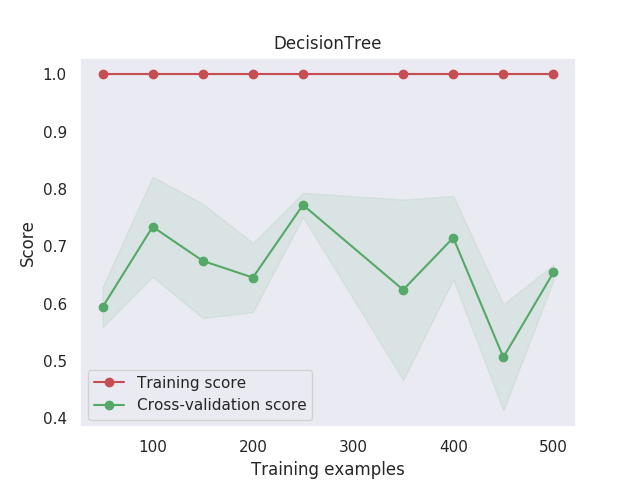
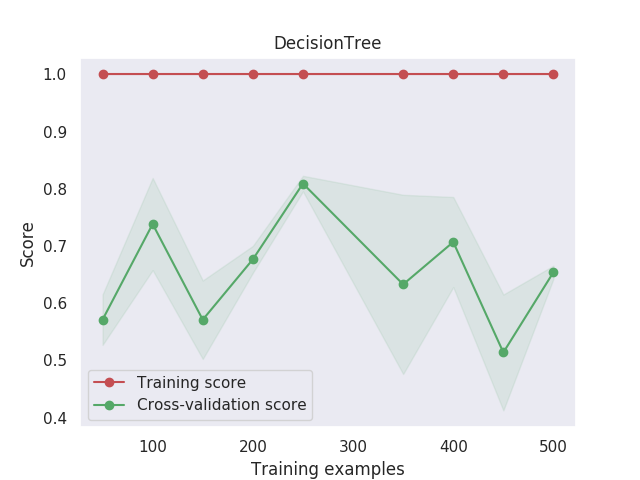
完成第38篇文章的代码。

diff --git a/38/FeatureEnginner.py b/38/FeatureEnginner.py
@@ -14,6 +14,13 @@ import warnings
 warnings.filterwarnings('ignore')
 
 from sklearn.preprocessing import LabelEncoder, OneHotEncoder
+from sklearn import model_selection
+
+from sklearn.ensemble import RandomForestClassifier
+from sklearn.ensemble import AdaBoostClassifier
+from sklearn.ensemble import ExtraTreesClassifier
+from sklearn.ensemble import GradientBoostingClassifier
+from sklearn.tree import DecisionTreeClassifier
 
 
 # 根据姓名提取姓
@@ -284,6 +291,86 @@ def dataTransform(df_all):
     return df_all
     
     
+# 找出最重要的几个特征
+def get_top_n_features(df_all, top_n_features):
+    # 划分数据
+    train_df, test_df = tools.divide_df(df_all)
+    titanic_train_data_X = train_df.drop(["Survived", "PassengerId"], axis = 1)
+    titanic_train_data_Y = train_df["Survived"]
+    
+    # random forest
+    rf_est = RandomForestClassifier(random_state=0)
+    rf_param_grid = {'n_estimators': [500], 'min_samples_split': [2, 3], 'max_depth': [20]}
+    rf_grid = model_selection.GridSearchCV(rf_est, rf_param_grid, n_jobs=-1, cv=10, verbose=1)
+    rf_grid.fit(titanic_train_data_X, titanic_train_data_Y)
+    print('Top N Features Best RF Params:' + str(rf_grid.best_params_))
+    print('Top N Features Best RF Score:' + str(rf_grid.best_score_))
+    print('Top N Features RF Train Score:' + str(rf_grid.score(titanic_train_data_X, titanic_train_data_Y)))
+    feature_imp_sorted_rf = pd.DataFrame({'feature':list(titanic_train_data_X), 'importance': rf_grid.best_estimator_.feature_importances_}).sort_values('importance',ascending=False)
+    features_top_n_rf = feature_imp_sorted_rf.head(top_n_features)['feature']
+    print('Sample 10 Features from RF Classifier')
+    print(str(features_top_n_rf[:10]))
+    
+    # AdaBoost
+    ada_est =AdaBoostClassifier(random_state=0)
+    ada_param_grid = {'n_estimators': [500], 'learning_rate': [0.01, 0.1]}
+    ada_grid = model_selection.GridSearchCV(ada_est, ada_param_grid, n_jobs=-1, cv=10, verbose=1)
+    ada_grid.fit(titanic_train_data_X, titanic_train_data_Y)
+    print('Top N Features Best Ada Params:' + str(ada_grid.best_params_))
+    print('Top N Features Best Ada Score:' + str(ada_grid.best_score_))
+    print('Top N Features Ada Train Score:' + str(ada_grid.score(titanic_train_data_X, titanic_train_data_Y)))
+    feature_imp_sorted_ada = pd.DataFrame({'feature':list(titanic_train_data_X), 'importance': ada_grid.best_estimator_.feature_importances_}).sort_values('importance', ascending=False)
+    features_top_n_ada = feature_imp_sorted_ada.head(top_n_features)['feature']
+    print('Sample 10 Feature from Ada Classifier:')
+    print(str(features_top_n_ada[:10]))
+
+    # ExtraTree
+    et_est = ExtraTreesClassifier(random_state=0)
+    et_param_grid = {'n_estimators': [500], 'min_samples_split': [3, 4], 'max_depth': [20]}
+    et_grid = model_selection.GridSearchCV(et_est, et_param_grid, n_jobs=-1, cv=10, verbose=1)
+    et_grid.fit(titanic_train_data_X, titanic_train_data_Y)
+    print('Top N Features Best ET Params:' + str(et_grid.best_params_))
+    print('Top N Features Best ET Score:' + str(et_grid.best_score_))
+    print('Top N Features ET Train Score:' + str(et_grid.score(titanic_train_data_X, titanic_train_data_Y)))
+    feature_imp_sorted_et = pd.DataFrame({'feature':list(titanic_train_data_X), 'importance': et_grid.best_estimator_.feature_importances_}).sort_values('importance', ascending=False)
+    features_top_n_et =  feature_imp_sorted_et.head(top_n_features)['feature']
+    print('Sample 10 Features from ET Classifier:')
+    print(str(features_top_n_et[:10]))
+    
+    # GradientBoosting
+    gb_est =GradientBoostingClassifier(random_state=0)
+    gb_param_grid = {'n_estimators': [500], 'learning_rate': [0.01, 0.1], 'max_depth': [20]}
+    gb_grid = model_selection.GridSearchCV(gb_est, gb_param_grid, n_jobs=-1, cv=10, verbose=1)
+    gb_grid.fit(titanic_train_data_X, titanic_train_data_Y)
+    print('Top N Features Best GB Params:' + str(gb_grid.best_params_))
+    print('Top N Features Best GB Score:' + str(gb_grid.best_score_))
+    print('Top N Features GB Train Score:' + str(gb_grid.score(titanic_train_data_X, titanic_train_data_Y)))
+    feature_imp_sorted_gb = pd.DataFrame({'feature':list(titanic_train_data_X), 'importance': gb_grid.best_estimator_.feature_importances_}).sort_values('importance', ascending=False)
+    features_top_n_gb = feature_imp_sorted_gb.head(top_n_features)['feature']
+    print('Sample 10 Feature from GB Classifier:')
+    print(str(features_top_n_gb[:10]))
+    
+    # DecisionTree
+    dt_est = DecisionTreeClassifier(random_state=0)
+    dt_param_grid = {'min_samples_split': [2, 4], 'max_depth': [20]}
+    dt_grid = model_selection.GridSearchCV(dt_est, dt_param_grid, n_jobs=-1, cv=10, verbose=1)
+    dt_grid.fit(titanic_train_data_X, titanic_train_data_Y)
+    print('Top N Features Best DT Params:' + str(dt_grid.best_params_))
+    print('Top N Features Best DT Score:' + str(dt_grid.best_score_))
+    print('Top N Features DT Train Score:' + str(dt_grid.score(titanic_train_data_X, titanic_train_data_Y)))
+    feature_imp_sorted_dt = pd.DataFrame({'feature':list(titanic_train_data_X), 'importance': dt_grid.best_estimator_.feature_importances_}).sort_values('importance', ascending=False)
+    features_top_n_dt = feature_imp_sorted_dt.head(top_n_features)['feature']
+    print('Sample 10 Features from DT Classifier:')
+    print(str(features_top_n_dt[:10]))
+    
+    # merge the three models
+    features_top_n = pd.concat([features_top_n_rf, features_top_n_ada, features_top_n_et, features_top_n_gb, features_top_n_dt],ignore_index=True).drop_duplicates()
+    
+    features_importance = pd.concat([feature_imp_sorted_rf,feature_imp_sorted_ada, feature_imp_sorted_et,feature_imp_sorted_gb, feature_imp_sorted_dt],ignore_index=True)
+    
+    return features_top_n, features_importance
+    
+    
 # 进行特征工程
 def feature_engineer(df_all):
     FareEng(df_all)
@@ -293,6 +380,6 @@ def feature_engineer(df_all):
     df_all = TitleMarriedEng(df_all)
     df_all = FamilyTicketEng(df_all)
     df_all = dataTransform(df_all)
-    
-    return df_all
+    feature_top_n, feature_importance = get_top_n_features(df_all, 10)
+    return df_all, feature_top_n
     

diff --git a/38/MergeModels.py b/38/MergeModels.py
@@ -1,0 +1,86 @@
+# coding:utf-8
+# 模型融合
+
+
+import numpy as np
+import pandas as pd
+
+from sklearn.model_selection import KFold
+
+from sklearn.neighbors import KNeighborsClassifier
+from sklearn.svm import SVC
+from sklearn.ensemble import RandomForestClassifier, AdaBoostClassifier, ExtraTreesClassifier, GradientBoostingClassifier
+from sklearn.tree import DecisionTreeClassifier
+
+import tools
+
+from xgboost import XGBClassifier
+
+
+
+SEED = 0
+NFOLDS = 7
+kf = KFold(n_splits = NFOLDS, random_state = SEED, shuffle = False)
+
+
+def get_out_fold(clf, x_train, y_train, x_test):
+    ntrain = x_train.shape[0]
+    ntest = x_test.shape[0]
+    oof_train = np.zeros((ntrain, ))
+    oof_test = np.zeros((ntest, ))
+    oof_test_skf = np.empty((NFOLDS, ntest))
+    
+    for i, (train_index, test_index) in enumerate(kf.split(x_train)):
+        x_tr = x_train[train_index]
+        y_tr = y_train[train_index]
+        x_te = x_train[test_index]
+        
+        clf.fit(x_tr, y_tr)
+        
+        oof_train[test_index] = clf.predict(x_te)
+        oof_test_skf[i, :] = clf.predict(x_test)
+    oof_test[:] = oof_test_skf.mean(axis=0)
+    return oof_train.reshape(-1, 1), oof_test.reshape(-1, 1)
+
+
+# 模型融合
+def MergeModels(df_all, top_features):
+    print("模型融合")
+    # level 1
+    rf = RandomForestClassifier(n_estimators=500, warm_start=True, max_features='sqrt',max_depth=6, min_samples_split=3, min_samples_leaf=2, n_jobs=-1, verbose=0)
+    ada = AdaBoostClassifier(n_estimators=500, learning_rate=0.1)
+    et = ExtraTreesClassifier(n_estimators=500, n_jobs=-1, max_depth=8,min_samples_leaf=2, verbose=0)
+    gb = GradientBoostingClassifier(n_estimators=500, learning_rate=0.008, min_samples_split=3, min_samples_leaf=2, max_depth=5,verbose=0)
+    dt = DecisionTreeClassifier(max_depth=8)
+    knn = KNeighborsClassifier(n_neighbors = 2)
+    svm = SVC(kernel='linear', C=0.025)
+    
+    train_df, test_df = tools.divide_df(df_all)
+    x_train = train_df[top_features].values
+    y_train = train_df["Survived"].values
+    x_test = test_df[top_features].values
+    
+    rf_oof_train, rf_oof_test = get_out_fold(rf, x_train, y_train, x_test)
+    # Random Forest
+    ada_oof_train, ada_oof_test = get_out_fold(ada, x_train, y_train, x_test)
+    # AdaBoost 
+    et_oof_train, et_oof_test = get_out_fold(et, x_train, y_train, x_test)
+    # Extra Trees
+    gb_oof_train, gb_oof_test = get_out_fold(gb, x_train, y_train, x_test)
+    # Gradient Boost
+    dt_oof_train, dt_oof_test = get_out_fold(dt, x_train, y_train, x_test)
+    # Decision Tree
+    knn_oof_train, knn_oof_test = get_out_fold(knn, x_train, y_train, x_test)
+    # KNeighbors
+    svm_oof_train, svm_oof_test = get_out_fold(svm, x_train, y_train, x_test)
+    # Support Vector
+    print("训练完成")
+    
+    # level 2 预测并生成提交文件
+    x_train = np.concatenate((rf_oof_train, ada_oof_train, et_oof_train, gb_oof_train, dt_oof_train, knn_oof_train, svm_oof_train), axis=1)
+    x_test = np.concatenate((rf_oof_test, ada_oof_test, et_oof_test, gb_oof_test, dt_oof_test, knn_oof_test, svm_oof_test), axis=1)
+    
+    gbm = XGBClassifier( n_estimators= 2000, max_depth= 4, min_child_weight= 2, gamma=0.9, subsample=0.8,colsample_bytree=0.8, objective= 'binary:logistic', nthread= -1,scale_pos_weight=1).fit(x_train, y_train)
+    predictions = gbm.predict(x_test).astype(int)
+    StackingSubmission = pd.DataFrame({'PassengerId': test_df["PassengerId"], 'Survived': predictions})
+    StackingSubmission.to_csv('StackingSubmission.csv',index=False,sep=',')

diff --git a/38/modeling.py b/38/modeling.py
@@ -20,12 +20,15 @@ import tools
 
 
 # 划分并处理数据
-def divide_data(df_all):
+def divide_data(df_all, feature_top_n):
     # 划分数据
     df_train, df_test = tools.divide_df(df_all)
-    X_train = StandardScaler().fit_transform(df_train.drop(["Survived"], axis = 1))
+    # X_train = StandardScaler().fit_transform(df_train.drop(["Survived"], axis = 1))
+    # y_train = df_train["Survived"].values
+    # X_test = StandardScaler().fit_transform(df_test)
+    X_train = StandardScaler().fit_transform(df_train[feature_top_n], axis = 1)
     y_train = df_train["Survived"].values
-    X_test = StandardScaler().fit_transform(df_test)
+    X_test = StandardScaler().fit_transform(df_test[feature_top_n])
     
     print('X_train shape: {}'.format(X_train.shape))
     print('y_train shape: {}'.format(y_train.shape))
@@ -160,9 +163,9 @@ def makeSubmission(probs, df_test, N):
     
     
 # 建模
-def model(df_all):
+def model(df_all, feature_top_n):
     N = 5
-    X_train, y_train, X_test, df_test = divide_data(df_all)
+    X_train, y_train, X_test, df_test = divide_data(df_all, feature_top_n)
     
     single_best_model = RFC(criterion = "gini", n_estimators = 1100, max_depth = 5, min_samples_split=4, min_samples_leaf=5, max_features='auto', oob_score=True, random_state=SEED, n_jobs=-1, verbose=1)
     leaderboard_model = RFC(criterion = "gini", n_estimators = 1750, max_depth = 7, min_samples_split=6, min_samples_leaf=6, max_features='auto', oob_score=True, random_state=SEED, n_jobs=-1, verbose=1)

diff --git a/38/titanic.py b/38/titanic.py
@@ -7,6 +7,7 @@ import FeatureEnginner as fe
 import modeling
 import modelevaluation as me
 import model_compare as mc
+import MergeModels as mm
 import numpy as np
 import pandas as pd
 import matplotlib.pyplot as plt
@@ -32,7 +33,7 @@ if __name__ == "__main__":
     print(df_all.head())
     
     # ③特征工程
-    df_all = fe.feature_engineer(df_all)
+    df_all, top_features = fe.feature_engineer(df_all)
     
     # ④建模
     # modeling.model(df_all)
@@ -45,4 +46,7 @@ if __name__ == "__main__":
     # me.learnning_curve(rf_parameters, RFC, title, df_all, filename)
     
     # ⑥比较不同的模型
-    mc.model_compare(df_all)
+    # mc.model_compare(df_all)
+    
+    # ⑦模型融合
+    mm.MergeModels(df_all, top_features)
